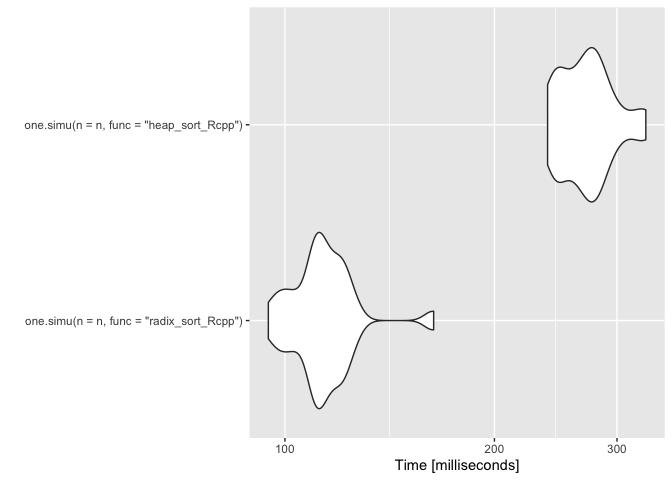
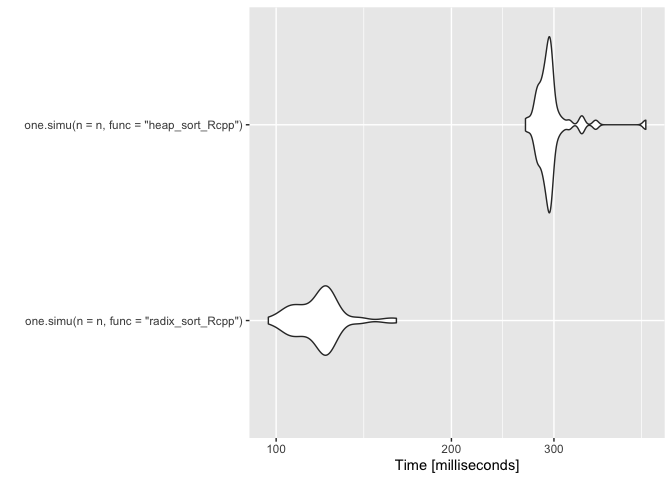
update

diff --git a/simulations/README.md b/simulations/README.md
@@ -64,7 +64,7 @@ Vecteur à trier.
 v
 ```
 
-    ##  [1]  9  7 10  4  6  4  7  4  1 10
+    ##  [1]  8  8  4  3  9  9  9  6  4 10
 
 Radix sort avec la fonction codée en R.
 
@@ -72,7 +72,7 @@ Radix sort avec la fonction codée en R.
 radix_sort(v)
 ```
 
-    ##  [1]  1  4  4  4  6  7  7  9 10 10
+    ##  [1]  3  4  4  6  8  8  9  9  9 10
 
 Radix sort avec la fonction codée en Rcpp.
 
@@ -80,7 +80,7 @@ Radix sort avec la fonction codée en Rcpp.
 radix_sort_Rcpp(v)
 ```
 
-    ##  [1]  1  4  4  4  6  7  7  9 10 10
+    ##  [1]  3  4  4  6  8  8  9  9  9 10
 
 <a id="n"></a>
 
@@ -153,7 +153,7 @@ On fait un premier essai de simulation pour chacun des algorithmes avec
 one.simu(n = n, func = "radix_sort")
 ```
 
-    ## [1] 0.145
+    ## [1] 0.18
 
 ``` r
 one.simu(n = n, func = "radix_sort_Rcpp")
@@ -170,7 +170,7 @@ one.simu(n = n, func = "radix_sort_Rcpp")
 one.simu(n = n, func = "heap_sort_Rcpp")
 ```
 
-    ## [1] 0.026
+    ## [1] 0.029
 
 ``` r
 # Trop lent sur de grosses données
@@ -218,20 +218,20 @@ On affiche les temps d’exécution pour effectuer 10 simulations.
 t1 # temps d'exécution du radix sort en R
 ```
 
-    ## [1] 19.442
+    ## [1] 18.218
 
 ``` r
 t2 # temps d'exécution du radix sort en Rcpp
 ```
 
-    ## [1] 0.511
+    ## [1] 0.541
 
 ``` r
 # t3 # temps d'exécution du heap sort en R
 t4 # temps d'exécution du heap sort en Rcpp
 ```
 
-    ## [1] 2.26
+    ## [1] 2.683
 
 Comparaison des temps d’exécution.
 
@@ -239,7 +239,7 @@ Comparaison des temps d’exécution.
 t1/t2 # radix sort gain R -> Rcpp
 ```
 
-    ## [1] 38.04697
+    ## [1] 33.67468
 
 ``` r
 # t3/t4 # heap sort gain R -> Rcpp
@@ -248,7 +248,7 @@ t1/t2 # radix sort gain R -> Rcpp
 t2/t4 # comparaison radix sort en Rcpp et heap sort en Rcpp
 ```
 
-    ## [1] 0.2261062
+    ## [1] 0.20164
 
 ### Simulations dans le “cas logarithmique”
 
@@ -292,13 +292,13 @@ On affiche les temps d’exécution pour effectuer 10 simulations.
 t1_log # temps d'exécution du radix sort en R
 ```
 
-    ## [1] 0.001
+    ## [1] 0
 
 ``` r
 t2_log # temps d'exécution du radix sort en Rcpp
 ```
 
-    ## [1] 0.002
+    ## [1] 0
 
 ``` r
 #t3_log # temps d'exécution du heap sort en R
@@ -313,7 +313,7 @@ Comparaison des temps d’exécution.
 t1_log/t2_log # radix sort gain R -> Rcpp
 ```
 
-    ## [1] 0.5
+    ## [1] NaN
 
 ``` r
 #t3_log/t4_log # heap sort gain R -> Rcpp
@@ -322,7 +322,7 @@ t1_log/t2_log # radix sort gain R -> Rcpp
 t2_log/t4_log # comparaison radix sort en Rcpp et heap sort en Rcpp
 ```
 
-    ## [1] Inf
+    ## [1] NaN
 
 ### Simulations dans le “pire des cas”
 
@@ -360,20 +360,20 @@ On affiche les temps d’exécution pour effectuer 10 simulations.
 t1_worst # temps d'exécution du radix sort en R
 ```
 
-    ## [1] 18.839
+    ## [1] 19.179
 
 ``` r
 t2_worst # temps d'exécution du radix sort en Rcpp
 ```
 
-    ## [1] 0.527
+    ## [1] 0.524
 
 ``` r
 #t3_worst # temps d'exécution du heap sort en R
 t4_worst # temps d'exécution du heap sort en Rcpp
 ```
 
-    ## [1] 1.368
+    ## [1] 1.373
 
 Comparaison des temps d’exécution.
 
@@ -381,7 +381,7 @@ Comparaison des temps d’exécution.
 t1_worst/t2_worst # radix sort gain R -> Rcpp
 ```
 
-    ## [1] 35.74763
+    ## [1] 36.60115
 
 ``` r
 # t3_worst/t4_worst # heap sort gain R -> Rcpp
@@ -390,7 +390,7 @@ t1_worst/t2_worst # radix sort gain R -> Rcpp
 t2_worst/t4_worst # comparaison radix sort en Rcpp et heap sort en Rcpp
 ```
 
-    ## [1] 0.3852339
+    ## [1] 0.381646
 
 <a id="micro"></a>
 
@@ -427,13 +427,13 @@ print(res)
 
     ## Unit: milliseconds
     ##                                       expr      min       lq     mean   median
-    ##       one.simu(n = n, func = "radix_sort") 52.48329 57.39187 59.40552 59.55628
-    ##  one.simu(n = n, func = "radix_sort_Rcpp") 38.55722 40.92623 42.98569 42.51627
-    ##   one.simu(n = n, func = "heap_sort_Rcpp") 39.70947 41.65465 43.07509 42.82792
-    ##        uq      max neval
-    ##  60.98617 68.88502    50
-    ##  44.09908 57.53628    50
-    ##  44.45939 48.01773    50
+    ##       one.simu(n = n, func = "radix_sort") 51.52939 58.34933 63.41493 62.26542
+    ##  one.simu(n = n, func = "radix_sort_Rcpp") 37.75791 43.30638 46.48574 46.78209
+    ##   one.simu(n = n, func = "heap_sort_Rcpp") 40.66138 44.99493 47.75972 48.09850
+    ##        uq       max neval
+    ##  65.15973 114.93432    50
+    ##  48.07576  71.73819    50
+    ##  50.39420  67.87900    50
 
 ### Comparaison entre le radix sort en Rcpp et le heap sort en Rcpp (“cas moyen”)
 
@@ -459,11 +459,11 @@ print(res)
 
     ## Unit: milliseconds
     ##                                       expr       min       lq     mean   median
-    ##  one.simu(n = n, func = "radix_sort_Rcpp")  94.66423 109.3194 114.0439 112.2889
-    ##   one.simu(n = n, func = "heap_sort_Rcpp") 238.46563 249.4284 271.8918 271.6391
+    ##  one.simu(n = n, func = "radix_sort_Rcpp")  96.96154 110.5100 118.8427 120.0927
+    ##   one.simu(n = n, func = "heap_sort_Rcpp") 268.04721 286.4723 297.0618 293.1333
     ##        uq      max neval
-    ##  120.1313 163.5682    50
-    ##  281.0105 330.0410    50
+    ##  123.8785 160.8967    50
+    ##  297.1401 431.4280    50
 
 ### Comparaison entre le radix sort en R, le radix sort en Rcpp et le heap sort en Rcpp (“cas logarithmique”)
 
@@ -492,13 +492,13 @@ print(res)
 
     ## Unit: milliseconds
     ##                                                     expr      min       lq
-    ##       one.simu(n = n, type = "log", func = "radix_sort") 44.41595 45.61041
-    ##  one.simu(n = n, type = "log", func = "radix_sort_Rcpp") 44.08083 45.63437
-    ##   one.simu(n = n, type = "log", func = "heap_sort_Rcpp") 43.81823 45.28821
-    ##      mean   median       uq      max neval
-    ##  47.03937 46.38767 47.76779 56.38350    50
-    ##  46.65819 46.39673 47.12245 52.94447    50
-    ##  46.50323 46.12918 47.18257 53.25261    50
+    ##       one.simu(n = n, type = "log", func = "radix_sort") 45.44549 51.52720
+    ##  one.simu(n = n, type = "log", func = "radix_sort_Rcpp") 46.12505 49.39103
+    ##   one.simu(n = n, type = "log", func = "heap_sort_Rcpp") 43.81437 50.69965
+    ##      mean   median       uq       max neval
+    ##  57.84659 55.61273 58.73158 121.08153    50
+    ##  55.51660 53.60597 56.24645  95.55334    50
+    ##  55.55614 55.47382 57.66596  94.46616    50
 
 ### Comparaison entre le radix sort en Rcpp et le heap sort en Rcpp (“cas logarithmique”)
 
@@ -525,11 +525,11 @@ print(res)
 
     ## Unit: milliseconds
     ##                                                     expr      min       lq
-    ##  one.simu(n = n, type = "log", func = "radix_sort_Rcpp") 44.11373 45.08553
-    ##   one.simu(n = n, type = "log", func = "heap_sort_Rcpp") 44.22827 44.97427
-    ##      mean   median       uq      max neval
-    ##  46.84968 45.75970 48.06489 54.62435    50
-    ##  46.56185 45.68711 48.02937 52.23691    50
+    ##  one.simu(n = n, type = "log", func = "radix_sort_Rcpp") 44.96991 52.70741
+    ##   one.simu(n = n, type = "log", func = "heap_sort_Rcpp") 46.55884 51.59890
+    ##      mean   median       uq       max neval
+    ##  54.68255 54.17014 56.68594  66.25204    50
+    ##  57.32136 54.42320 57.60935 108.45452    50
 
 ### Comparaison entre le radix sort en R, le radix sort en Rcpp et le heap sort en Rcpp (“pire des cas”)
 
@@ -559,13 +559,13 @@ print(res)
 
     ## Unit: milliseconds
     ##                                                  expr      min       lq
-    ##       one.simu(n = n, type = "", func = "radix_sort") 60.93721 67.04512
-    ##  one.simu(n = n, type = "", func = "radix_sort_Rcpp") 44.89340 49.56351
-    ##   one.simu(n = n, type = "", func = "heap_sort_Rcpp") 44.64093 48.26755
+    ##       one.simu(n = n, type = "", func = "radix_sort") 62.07385 66.64388
+    ##  one.simu(n = n, type = "", func = "radix_sort_Rcpp") 45.56667 51.98425
+    ##   one.simu(n = n, type = "", func = "heap_sort_Rcpp") 46.21004 51.76399
     ##      mean   median       uq       max neval
-    ##  74.84446 71.22342 78.07024 103.31808    50
-    ##  56.31830 54.59360 61.63129  78.49405    50
-    ##  55.00354 52.83927 61.03903  77.59797    50
+    ##  72.12120 70.86287 73.92523 127.92314    50
+    ##  54.23437 54.16456 56.30185  61.17326    50
+    ##  54.88619 54.19298 55.77548  72.88464    50
 
 ### Comparaison entre le radix sort en Rcpp et le heap sort en Rcpp (“pire des cas”)
 
@@ -592,11 +592,11 @@ print(res)
 
     ## Unit: milliseconds
     ##                                                  expr       min       lq
-    ##  one.simu(n = n, type = "", func = "radix_sort_Rcpp")  97.50581 102.2702
-    ##   one.simu(n = n, type = "", func = "heap_sort_Rcpp") 173.90354 181.7978
+    ##  one.simu(n = n, type = "", func = "radix_sort_Rcpp")  99.84463 107.5945
+    ##   one.simu(n = n, type = "", func = "heap_sort_Rcpp") 178.51413 187.7853
     ##      mean   median       uq      max neval
-    ##  108.8439 104.8287 110.1807 157.0846    50
-    ##  194.1268 188.1509 200.7221 253.0906    50
+    ##  110.9527 110.5772 113.0633 131.4692    50
+    ##  196.3420 193.3214 198.0874 266.1057    50
 
 <a id="complexity"></a>
 
@@ -642,12 +642,12 @@ lm(res ~ vector_n)
     ## 
     ## Coefficients:
     ## (Intercept)     vector_n  
-    ##   2.881e-03    1.492e-06
+    ##   2.308e-03    1.516e-06
 
 ### Radix sort en Rcpp
 
 En Rcpp, on constate qu’on gagne énormément de temps par rapport au code
-R. Cependant, on n’a plus du tout la tendance “linéaire” de la courbe.
+R.
 
 ``` r
 nbSimus <- 20
